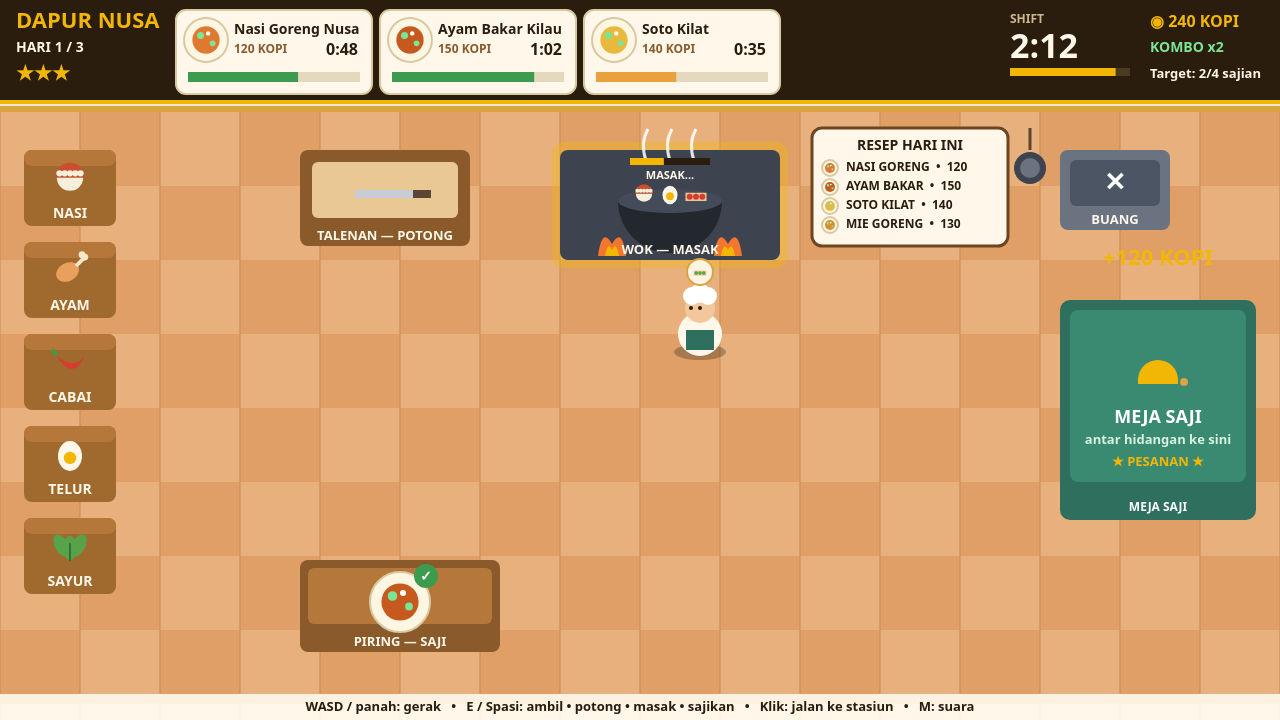
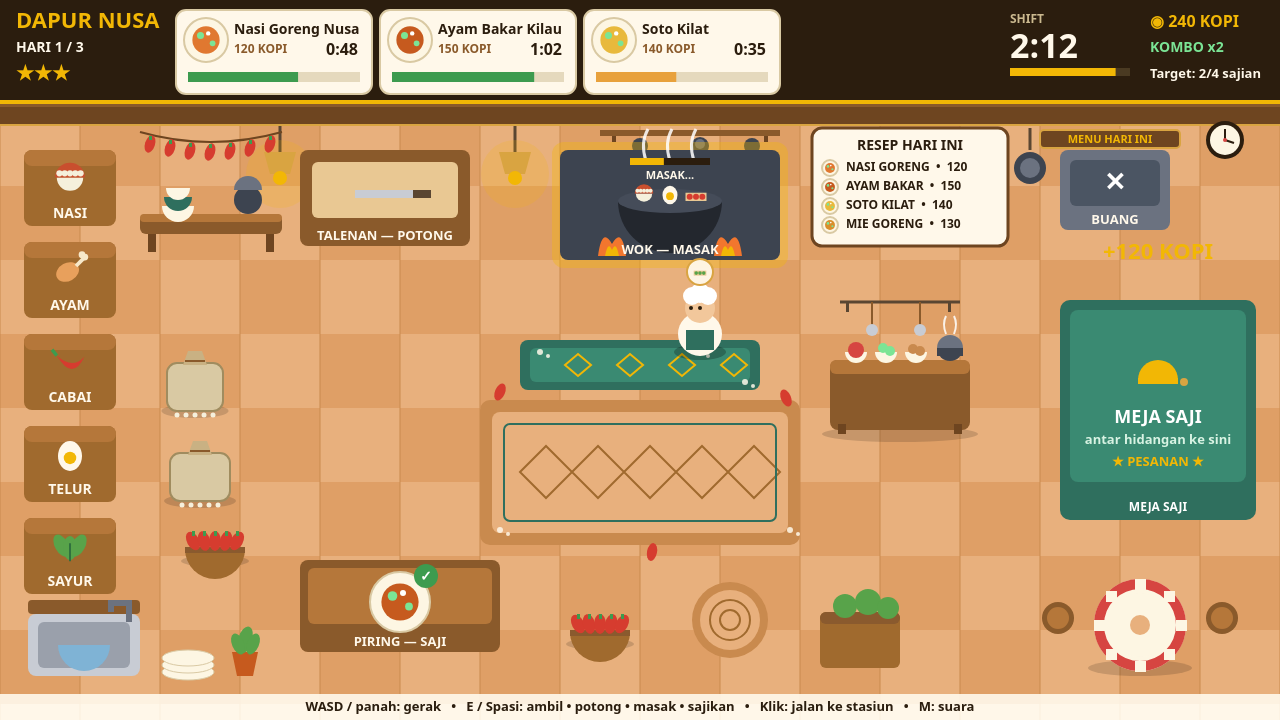
Dapur Nusa v2: densify kitchen floor with original decor

diff --git a/game/src/render.js b/game/src/render.js
@@ -141,6 +141,270 @@ function drawFloor(ctx) {
   ctx.beginPath(); ctx.arc(1030, 168, 10, 0, Math.PI * 2); ctx.fill();
 }
 
+// --- kitchen decor: fills the empty middle floor + wall gaps (flat vector) ----
+// Everything here is floor dressing only: no gameplay, no HUD changes. The
+// big mat is flat (the chef walks over it); sacks, baskets and pots hug the
+// bottom edge and the right-centre gap so no walk lane or station is covered.
+function drawDecor(ctx) {
+  // Dark-wood wall band under the HUD: the kitchen finally has a "room".
+  ctx.fillStyle = '#6e4520';
+  ctx.fillRect(0, 104, VIEW_W, 22);
+  ctx.fillStyle = '#8a5a2b';
+  ctx.fillRect(0, 104, VIEW_W, 3);
+  ctx.fillStyle = '#d9a441';
+  ctx.fillRect(0, 124, VIEW_W, 2);
+  // Hanging lamps in the gaps between stations: cord, warm shade, glow.
+  for (const lx of [280, 515]) {
+    ctx.strokeStyle = '#5a4632'; ctx.lineWidth = 3;
+    ctx.beginPath(); ctx.moveTo(lx, 126); ctx.lineTo(lx, 152); ctx.stroke();
+    ctx.fillStyle = 'rgba(242,183,5,0.18)';
+    ctx.beginPath(); ctx.arc(lx, 174, 34, 0, Math.PI * 2); ctx.fill();
+    ctx.fillStyle = '#d9a441';
+    ctx.beginPath();
+    ctx.moveTo(lx - 16, 152); ctx.lineTo(lx + 16, 152);
+    ctx.lineTo(lx + 10, 174); ctx.lineTo(lx - 10, 174);
+    ctx.closePath(); ctx.fill();
+    ctx.fillStyle = '#f2b705';
+    ctx.beginPath(); ctx.arc(lx, 178, 7, 0, Math.PI * 2); ctx.fill();
+  }
+  // Shelf with pot/pan silhouettes above the stove, below the wall band.
+  ctx.fillStyle = '#8a5a2b';
+  ctx.fillRect(600, 130, 180, 6);
+  ctx.fillStyle = '#6e4520';
+  ctx.fillRect(612, 136, 4, 6); ctx.fillRect(764, 136, 4, 6);
+  ctx.fillStyle = '#3d4450'; // hanging pans + a small pot, dark silhouettes
+  ctx.beginPath(); ctx.arc(640, 146, 8, 0, Math.PI * 2); ctx.fill();
+  ctx.beginPath(); ctx.arc(700, 146, 9, 0, Math.PI * 2); ctx.fill();
+  ctx.beginPath(); ctx.arc(752, 146, 8, 0, Math.PI * 2); ctx.fill();
+  ctx.fillStyle = '#6b7280';
+  ctx.beginPath(); ctx.arc(700, 144, 5, 0, Math.PI * 2); ctx.fill();
+  // Round wall clock, top-right, right of the trash station.
+  ctx.fillStyle = '#2b1d0e';
+  ctx.beginPath(); ctx.arc(1225, 140, 19, 0, Math.PI * 2); ctx.fill();
+  ctx.fillStyle = '#fdf6e3';
+  ctx.beginPath(); ctx.arc(1225, 140, 15, 0, Math.PI * 2); ctx.fill();
+  ctx.strokeStyle = '#2b1d0e'; ctx.lineWidth = 2;
+  ctx.beginPath(); ctx.moveTo(1225, 140); ctx.lineTo(1225, 129); ctx.stroke();
+  ctx.beginPath(); ctx.moveTo(1225, 140); ctx.lineTo(1234, 143); ctx.stroke();
+  ctx.fillStyle = '#d64541';
+  ctx.beginPath(); ctx.arc(1225, 140, 2, 0, Math.PI * 2); ctx.fill();
+  // Framed MENU HARI INI strip under the band, left of the clock.
+  ctx.fillStyle = '#6e4520';
+  rr(ctx, 1040, 130, 140, 18, 4); ctx.fill();
+  ctx.strokeStyle = '#d9a441'; ctx.lineWidth = 2; ctx.stroke();
+  text(ctx, 'MENU HARI INI', 1110, 140, 11, COLORS.gold, 'bold', 'center');
+  // Chili garland strung across the wall gap left of the board.
+  ctx.strokeStyle = '#6e4520'; ctx.lineWidth = 2;
+  ctx.beginPath(); ctx.moveTo(140, 132);
+  ctx.quadraticCurveTo(210, 152, 282, 132); ctx.stroke();
+  for (let i = 0; i < 7; i++) {
+    const gx = 150 + i * 20;
+    const gy = 138 + Math.sin((i / 6) * Math.PI) * 8;
+    ctx.fillStyle = '#d63c2f';
+    ctx.beginPath(); ctx.ellipse(gx, gy + 6, 5, 9, 0.3, 0, Math.PI * 2); ctx.fill();
+    ctx.fillStyle = '#3d9b4f';
+    ctx.fillRect(gx - 1, gy - 2, 3, 4);
+  }
+  // Side table with stacked bowls + a small pot, left of the board.
+  ctx.fillStyle = '#6e4520';
+  ctx.fillRect(148, 232, 8, 20); ctx.fillRect(266, 232, 8, 20);
+  ctx.fillStyle = '#8a5a2b';
+  rr(ctx, 140, 214, 142, 20, 6); ctx.fill();
+  ctx.fillStyle = '#b5773a';
+  rr(ctx, 140, 214, 142, 8, 4); ctx.fill();
+  for (let i = 0; i < 3; i++) { // stacked bowls, alternating glaze
+    ctx.fillStyle = i % 2 ? '#2f6f5e' : '#fdf6e3';
+    ctx.beginPath(); ctx.arc(178, 206 - i * 9, 16 - i * 2, 0, Math.PI); ctx.fill();
+  }
+  ctx.fillStyle = '#3d4450'; // small pot with lid
+  ctx.beginPath(); ctx.arc(248, 200, 14, 0, Math.PI * 2); ctx.fill();
+  ctx.fillStyle = '#6b7280';
+  ctx.beginPath(); ctx.arc(248, 190, 14, Math.PI, 0); ctx.fill();
+  // Two woven floor mats, centre floor (flat — the chef walks over them).
+  ctx.fillStyle = '#2f6f5e'; // teal runner above the big mat
+  rr(ctx, 520, 340, 240, 50, 8); ctx.fill();
+  ctx.fillStyle = '#3a8a72';
+  rr(ctx, 530, 348, 220, 34, 6); ctx.fill();
+  ctx.strokeStyle = '#f2b705'; ctx.lineWidth = 2;
+  for (let i = 0; i < 4; i++) {
+    ctx.beginPath();
+    ctx.moveTo(565 + i * 52, 365);
+    ctx.lineTo(578 + i * 52, 354); ctx.lineTo(591 + i * 52, 365); ctx.lineTo(578 + i * 52, 376);
+    ctx.closePath(); ctx.stroke();
+  }
+  ctx.fillStyle = '#c98a4e'; // big terracotta mat
+  rr(ctx, 480, 400, 320, 145, 10); ctx.fill();
+  ctx.fillStyle = '#e8b07d';
+  rr(ctx, 492, 412, 296, 121, 8); ctx.fill();
+  ctx.strokeStyle = '#a06a2e'; ctx.lineWidth = 2;
+  for (let i = 0; i < 5; i++) {
+    ctx.beginPath();
+    ctx.moveTo(520 + i * 52, 472);
+    ctx.lineTo(546 + i * 52, 446); ctx.lineTo(572 + i * 52, 472); ctx.lineTo(546 + i * 52, 498);
+    ctx.closePath(); ctx.stroke();
+  }
+  ctx.strokeStyle = '#2f6f5e'; ctx.lineWidth = 2; // teal inner border
+  rr(ctx, 504, 424, 272, 97, 6); ctx.stroke();
+  // Scattered chillies + flour dust: floor decals around the mats.
+  ctx.fillStyle = '#d63c2f';
+  for (const [cx, cy, r] of [[500, 392, 0.4], [786, 398, -0.4], [652, 552, 0.2]]) {
+    ctx.beginPath(); ctx.ellipse(cx, cy, 5, 9, r, 0, Math.PI * 2); ctx.fill();
+  }
+  ctx.fillStyle = 'rgba(255,248,234,0.85)'; // flour dust
+  for (const [fx, fy] of [[540, 352], [700, 352], [745, 382], [500, 530], [790, 530]]) {
+    ctx.beginPath(); ctx.arc(fx, fy, 3, 0, Math.PI * 2); ctx.fill();
+    ctx.beginPath(); ctx.arc(fx + 8, fy + 4, 2, 0, Math.PI * 2); ctx.fill();
+  }
+  // Side counter with spice bowls, mid-right, below the recipe poster.
+  ctx.fillStyle = 'rgba(0,0,0,0.15)';
+  ctx.beginPath(); ctx.ellipse(900, 434, 78, 8, 0, 0, Math.PI * 2); ctx.fill();
+  ctx.fillStyle = '#8a5a2b'; // counter body
+  rr(ctx, 830, 360, 140, 70, 8); ctx.fill();
+  ctx.fillStyle = '#b5773a'; // counter top
+  rr(ctx, 830, 360, 140, 14, 6); ctx.fill();
+  ctx.fillStyle = '#6e4520'; // legs
+  ctx.fillRect(838, 424, 8, 10); ctx.fillRect(954, 424, 8, 10);
+  // Spice bowls on the counter: red spice, limes, shallots.
+  ctx.fillStyle = '#fdf6e3';
+  ctx.beginPath(); ctx.arc(856, 352, 11, 0, Math.PI); ctx.fill();
+  ctx.fillStyle = '#d64541';
+  ctx.beginPath(); ctx.arc(856, 350, 8, 0, Math.PI * 2); ctx.fill();
+  ctx.fillStyle = '#fdf6e3';
+  ctx.beginPath(); ctx.arc(886, 352, 11, 0, Math.PI); ctx.fill();
+  ctx.fillStyle = '#7be495';
+  ctx.beginPath(); ctx.arc(883, 348, 5, 0, Math.PI * 2); ctx.fill();
+  ctx.beginPath(); ctx.arc(890, 351, 5, 0, Math.PI * 2); ctx.fill();
+  ctx.fillStyle = '#fdf6e3';
+  ctx.beginPath(); ctx.arc(916, 352, 11, 0, Math.PI); ctx.fill();
+  ctx.fillStyle = '#c98a4e';
+  ctx.beginPath(); ctx.arc(913, 349, 5, 0, Math.PI * 2); ctx.fill();
+  ctx.beginPath(); ctx.arc(920, 351, 5, 0, Math.PI * 2); ctx.fill();
+  // Small steaming pot on the counter (second motion cue).
+  ctx.fillStyle = '#3d4450';
+  ctx.beginPath(); ctx.arc(950, 348, 13, 0, Math.PI); ctx.fill();
+  ctx.fillRect(937, 348, 26, 8);
+  ctx.fillStyle = '#6b7280';
+  ctx.beginPath(); ctx.arc(950, 348, 13, Math.PI, 0); ctx.fill();
+  ctx.strokeStyle = 'rgba(255,255,255,0.85)'; ctx.lineWidth = 2;
+  ctx.beginPath();
+  ctx.moveTo(946, 334); ctx.quadraticCurveTo(942, 324, 946, 316); ctx.stroke();
+  ctx.beginPath();
+  ctx.moveTo(954, 334); ctx.quadraticCurveTo(958, 324, 954, 316); ctx.stroke();
+  // Hanging rail with ladles above the counter.
+  ctx.strokeStyle = '#5a4632'; ctx.lineWidth = 3;
+  ctx.beginPath(); ctx.moveTo(840, 302); ctx.lineTo(960, 302); ctx.stroke();
+  ctx.fillStyle = '#5a4632';
+  ctx.fillRect(846, 302, 3, 10); ctx.fillRect(948, 302, 3, 10);
+  ctx.strokeStyle = '#8a5a2b'; ctx.lineWidth = 2;
+  ctx.beginPath(); ctx.moveTo(872, 302); ctx.lineTo(872, 326); ctx.stroke();
+  ctx.beginPath(); ctx.moveTo(920, 302); ctx.lineTo(920, 326); ctx.stroke();
+  ctx.fillStyle = '#c8ccd4';
+  ctx.beginPath(); ctx.arc(872, 330, 6, 0, Math.PI * 2); ctx.fill();
+  ctx.beginPath(); ctx.arc(920, 330, 6, 0, Math.PI * 2); ctx.fill();
+  // Rice sacks along the mid-left edge, between crates and talenan.
+  for (const [sx, sy, sw] of [[195, 385, 56], [200, 475, 60]]) {
+    ctx.fillStyle = 'rgba(0,0,0,0.15)';
+    ctx.beginPath(); ctx.ellipse(sx, sy + 26, sw * 0.6, 7, 0, 0, Math.PI * 2); ctx.fill();
+    ctx.fillStyle = '#d9c9a3';
+    rr(ctx, sx - sw / 2, sy - 22, sw, 48, 10); ctx.fill();
+    ctx.strokeStyle = '#a08c5f'; ctx.lineWidth = 2;
+    rr(ctx, sx - sw / 2, sy - 22, sw, 48, 10); ctx.stroke();
+    ctx.fillStyle = '#c9b183'; // tied neck
+    ctx.beginPath();
+    ctx.moveTo(sx - 12, sy - 20); ctx.lineTo(sx + 12, sy - 20);
+    ctx.lineTo(sx + 7, sy - 34); ctx.lineTo(sx - 7, sy - 34);
+    ctx.closePath(); ctx.fill();
+    ctx.strokeStyle = '#8a5a2b'; ctx.lineWidth = 2;
+    ctx.beginPath(); ctx.moveTo(sx - 10, sy - 24); ctx.lineTo(sx + 10, sy - 24); ctx.stroke();
+    ctx.fillStyle = '#f5f0dc'; // spilled grains
+    for (let i = 0; i < 5; i++) {
+      ctx.beginPath(); ctx.arc(sx - 18 + i * 9, sy + 30, 2.5, 0, Math.PI * 2); ctx.fill();
+    }
+  }
+  // Chili baskets: woven basket mounded with red chilies.
+  for (const [bx, by] of [[215, 545], [600, 628]]) {
+    ctx.fillStyle = 'rgba(0,0,0,0.15)';
+    ctx.beginPath(); ctx.ellipse(bx, by + 16, 34, 6, 0, 0, Math.PI * 2); ctx.fill();
+    ctx.fillStyle = '#a06a2e';
+    ctx.beginPath(); ctx.arc(bx, by + 4, 30, 0, Math.PI); ctx.fill();
+    ctx.fillStyle = '#8a5a2e';
+    ctx.fillRect(bx - 30, by + 2, 60, 6);
+    ctx.fillStyle = '#d63c2f';
+    for (let i = -2; i <= 2; i++) {
+      ctx.beginPath(); ctx.ellipse(bx + i * 11, by - 4, 6, 10, i * 0.25, 0, Math.PI * 2); ctx.fill();
+    }
+    ctx.fillStyle = '#3d9b4f';
+    for (let i = -2; i <= 2; i++) ctx.fillRect(bx + i * 11 - 1, by - 14, 3, 5);
+  }
+  // Small round woven mat, bottom-centre floor.
+  ctx.fillStyle = '#c98a4e';
+  ctx.beginPath(); ctx.arc(730, 620, 38, 0, Math.PI * 2); ctx.fill();
+  ctx.fillStyle = '#e8b07d';
+  ctx.beginPath(); ctx.arc(730, 620, 30, 0, Math.PI * 2); ctx.fill();
+  ctx.strokeStyle = '#a06a2e'; ctx.lineWidth = 2;
+  ctx.beginPath(); ctx.arc(730, 620, 20, 0, Math.PI * 2); ctx.stroke();
+  ctx.beginPath(); ctx.arc(730, 620, 10, 0, Math.PI * 2); ctx.stroke();
+  // Sink + clean plates + potted plant, bottom-left corner.
+  ctx.fillStyle = '#8a5a2b'; // sink backsplash + basin
+  rr(ctx, 28, 600, 112, 14, 4); ctx.fill();
+  ctx.fillStyle = '#c8ccd4';
+  rr(ctx, 28, 614, 112, 62, 8); ctx.fill();
+  ctx.fillStyle = '#9aa0ab';
+  rr(ctx, 38, 622, 92, 46, 6); ctx.fill();
+  ctx.fillStyle = '#6b7280'; // faucet
+  ctx.fillRect(126, 600, 6, 22);
+  ctx.fillRect(108, 600, 24, 6);
+  ctx.fillRect(108, 600, 6, 12);
+  ctx.fillStyle = '#7fb3d5'; // water
+  ctx.beginPath(); ctx.arc(84, 645, 26, 0, Math.PI); ctx.fill();
+  // Stack of clean plates beside the sink.
+  for (let i = 0; i < 3; i++) {
+    ctx.fillStyle = '#fdf6e3';
+    ctx.beginPath(); ctx.ellipse(188, 672 - i * 7, 26, 8, 0, 0, Math.PI * 2); ctx.fill();
+    ctx.strokeStyle = '#d9c9a3'; ctx.lineWidth = 1;
+    ctx.stroke();
+  }
+  // Potted plant.
+  ctx.fillStyle = '#c65a1e';
+  ctx.beginPath(); ctx.moveTo(232, 652); ctx.lineTo(258, 652); ctx.lineTo(253, 676); ctx.lineTo(237, 676); ctx.closePath(); ctx.fill();
+  ctx.fillStyle = '#58a34a';
+  ctx.beginPath(); ctx.ellipse(245, 640, 7, 14, 0.3, 0, Math.PI * 2); ctx.fill();
+  ctx.beginPath(); ctx.ellipse(238, 644, 6, 11, -0.4, 0, Math.PI * 2); ctx.fill();
+  ctx.beginPath(); ctx.ellipse(253, 644, 6, 11, 0.4, 0, Math.PI * 2); ctx.fill();
+  // Small crate of greens, bottom band right of the round mat.
+  ctx.fillStyle = '#a06a2e';
+  rr(ctx, 820, 612, 80, 56, 6); ctx.fill();
+  ctx.fillStyle = '#8a5a2e';
+  rr(ctx, 820, 612, 80, 12, 6); ctx.fill();
+  ctx.fillStyle = '#58a34a';
+  ctx.beginPath(); ctx.arc(845, 606, 12, 0, Math.PI * 2); ctx.fill();
+  ctx.beginPath(); ctx.arc(868, 602, 13, 0, Math.PI * 2); ctx.fill();
+  ctx.beginPath(); ctx.arc(888, 608, 11, 0, Math.PI * 2); ctx.fill();
+  // Small dining corner, bottom-right, below the serving table.
+  ctx.fillStyle = 'rgba(0,0,0,0.15)';
+  ctx.beginPath(); ctx.ellipse(1140, 668, 52, 8, 0, 0, Math.PI * 2); ctx.fill();
+  ctx.fillStyle = '#fdf6e3'; // round table top
+  ctx.beginPath(); ctx.arc(1140, 625, 46, 0, Math.PI * 2); ctx.fill();
+  ctx.strokeStyle = '#d64541'; ctx.lineWidth = 10; // checkered cloth rim
+  ctx.beginPath(); ctx.arc(1140, 625, 41, 0, Math.PI * 2); ctx.stroke();
+  for (let i = 0; i < 8; i++) {
+    const a = (i / 8) * Math.PI * 2;
+    ctx.fillStyle = '#fdf6e3';
+    ctx.fillRect(1140 + Math.cos(a) * 41 - 5, 625 + Math.sin(a) * 41 - 5, 11, 11);
+  }
+  ctx.fillStyle = '#fdf6e3';
+  ctx.beginPath(); ctx.arc(1140, 625, 32, 0, Math.PI * 2); ctx.fill();
+  ctx.fillStyle = '#e8b07d'; // tiny plate in the middle
+  ctx.beginPath(); ctx.arc(1140, 625, 10, 0, Math.PI * 2); ctx.fill();
+  // Two stools flanking the table.
+  for (const sx of [1058, 1222]) {
+    ctx.fillStyle = '#8a5a2b';
+    ctx.beginPath(); ctx.arc(sx, 618, 16, 0, Math.PI * 2); ctx.fill();
+    ctx.fillStyle = '#b5773a';
+    ctx.beginPath(); ctx.arc(sx, 618, 11, 0, Math.PI * 2); ctx.fill();
+  }
+}
+
 function drawStation(ctx, key, k) {
   const s = STATIONS[key];
   const cx = s.x + s.w / 2, cy = s.y + s.h / 2;
@@ -370,6 +634,7 @@ function centerPanel(ctx, w, h) {
 
 export function render(ctx, k) {
   drawFloor(ctx);
+  drawDecor(ctx);
   for (const key of Object.keys(STATIONS)) drawStation(ctx, key, k);
   // Walk-target marker.
   if (k.moveTarget) {
